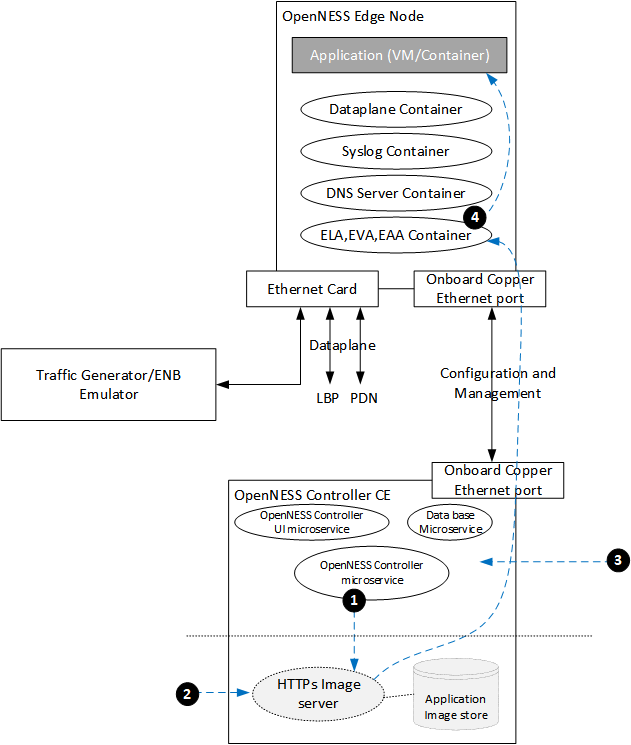
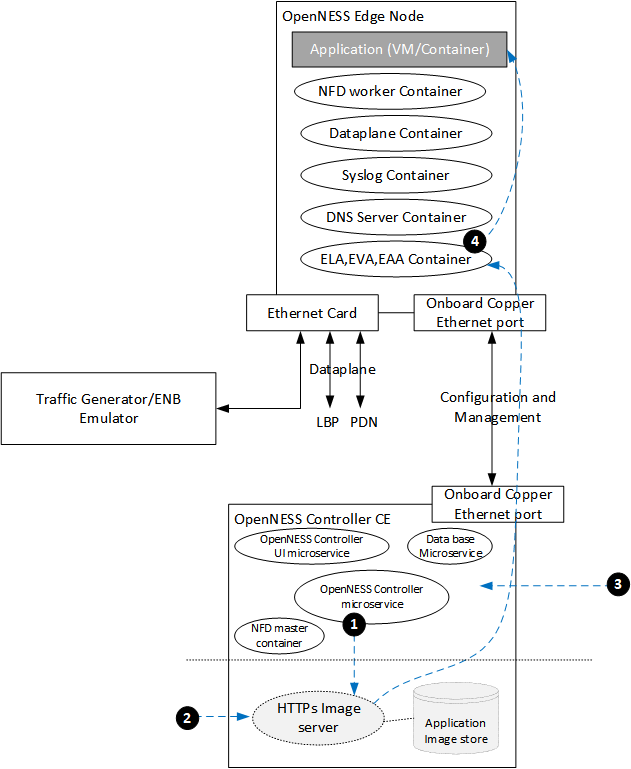
Arch update2003 (#195)
* 20.03 update

diff --git a/doc/architecture.md b/doc/architecture.md
@@ -121,14 +121,17 @@ Hence OpenNESS Controller deployment is described in these two modes:
   - Deploy edge compute applications from the image repository 
   - Configure the Edge compute application specific Traffic policy 
   - Configure the Edge compute application specific DNS policy 
+- **Node Feature Discovery (NFD)**: Contains two microservice. One on the controller (master) and one on the edge nodes (worker). NFD workers gets the hardware and software features on the edge node and the information is passed on to the NFD Master on the controller node. This information can be used by the user to deploy the applications to the edge node which meets the resource requirement. This ensures the reliable performance.
+- **Enhanced Platform Awareness**: is a subsystem of the application life cycle management that provides users to provide the key hardware or software features that needs to be made available to the applications when deployed on the edge node. The user is presented with a key:Value pair to choose from the supported EPA features. NFD when combined with EPA provides powerful mechanism for deployment for achieving application performance reliability. 
 - **Edge virtualization infrastructure management**: Use underlying virtualization infrastructure, whether directly via libvirt or Docker, or indirectly via Kubernetes, to manage the Edge Node platform and applications. 
 - **Telemetry**: Get basic edge compute microservices telemetry from connected Edge Nodes.
- 
+
 The Controller microservices make extensive use of the Go programming language and its runtime libraries.
 
 #### Details of Edge Controller Microservices functionality in Infrastructure deployment mode:
 - **Core Network Configuration**: Configure the access network (e.g., LTE/CUPS, 5G) control plane. 
 - **Telemetry**: Get basic edge compute microservices telemetry from connected Edge Nodes.
+- **Microservices and Enhancements for K8s master**: Set of microservice as daemon set deployed on Master to enable Cloudnative deployment. E.g. NFD (master), SRI-OV device plugin, etc. 
 
 OpenNESS when deployed using Kubernetes supports key features that expose the silicon micro architecture features of the platform to the applications and network functions  to achieve better and reliable performance. This will be described in the Enhanced Platform Awareness (EPA) section later in the document. 
 
@@ -149,8 +152,9 @@ OpenNESS Controller is used to onboard an application to the OpenNESS Edge Node.
 
 1. User sets up the HTTPS based Application image server. The image source needs to support HTTPS download. Edge Node trusts public CAs and the one from the controller. 
 2. User uploads the application image (container tar.gz image or VM qcow2) to the HTTPs server and ensures uploaded image is available for download over HTTPS.
-3. User initiates the Application deploy step using the Controller UI. This step initiates the download of the image from the HTTPS server to the Edge Node. After this step EVA registers the Application image. 
-4. User starts the Application, which kick starts the Container/Pod/VM. 
+3. User uses NFD to identify the edge node that supports the required EPA. 
+4. User initiates the Application deploy step using the Controller UI to the node that provides the required EPA for the application. This step initiates the download of the image from the HTTPS server to the Edge Node. After this step EVA registers the Application image. 
+5. User starts the Application, which kick starts the Container/Pod/VM. 
 
 ##### Application onboarding in OpenNESS Infrastructure deployment mode
 OpenNESS users need to use the Kubernetes Master to onboard and application to the OpenNESS Edge Node. OpenNESS support applications that can run in a docker container. Docker image tar.gz. The image source can be a docker registry or HTTPS image repository. The image repository can be an external image server or one that can be deployed on the controller. The figure below shows the steps involved in application onboarding.  
@@ -161,7 +165,7 @@ OpenNESS users need to use the Kubernetes Master to onboard and application to t
 
 1. User sets up the HTTPS based Application image server / Docker Registry where application container image is stored. 
 2. User uploads the application image (container tar.gz) to the HTTPs server. User downloads the application container image to the Edge Node.  
-3. User initiates the Application deploy step using Kubernetes (kubectl). 
+3. User initiates the Application deploy step using Kubernetes (kubectl). In this step user uses all the Kubernetes enhancements for EPA using NFD to deploy the application pod on the right node. 
 
 ### OpenNESS Edge Node 
 
@@ -170,7 +174,7 @@ OpenNESS users need to use the Kubernetes Master to onboard and application to t
 OpenNESS Edge Node hosts a set of microservices to enable Edge compute deployment. The type of OpenNESS microservices deployed on the Edge Node depends on the type of deployment - OpenNESS Infrastructure deployment or OpenNESS Native deployment. This is similar to OpenNESS controller deployment types described above.
 
 ##### Edge Node Microservices OpenNESS Native deployment mode
-Microservices deployed on the Edge Node in this mode include ELA, EVA, EAA, Syslog, DNS Server and NTS Dataplane. Although ELA, EVA and EAA can be deployed in separate containers.
+Microservices deployed on the Edge Node in this mode include ELA, EVA, EAA, Syslog, DNS Server and OVN/OVS-DPDK dataplane or optionally NTS Dataplane. 
 
  ![Edge Node Microservices](arch-images/openness_nodemicro.png)
 
@@ -190,7 +194,17 @@ Details of Edge Node Microservices functionality:
 - **DNS service**: Support DNS resolution and forwarding services for the application deployed on the edge compute. DNS server is implemented based on Go DNS library. DNS service supports resolving DNS requests from User Equipment (UE) and Applications on the edge cloud.  
 - **Edge Node Virtualization infrastructure**: Receive commands from the controller/NFV infrastructure managers to start and stop Applications. This functionality is implemented in the EVA (Edge virtualization Agent) microservice and is implemented in Go lang. 
 - **Edge application traffic policy**: Interface to set traffic policy for application deployed on the Edge Node. This functionality is implemented in the EDA (Edge Dataplane Agent) microservice and is implemented in Go lang. 
-- **Dataplane Service**: Steers traffic towards applications running on the Edge Node or the Local Break-out Port. 
+- **Dataplane Service**: Steers traffic towards applications running on the Edge Node or the Local Break-out Port.   
+   
+  <b>OVN/OVS-DPDK</b>
+  - The primary dataplane that is supported in native mode is OVN/OVS-DPDK. 
+  - OVN manages the IP address allocated to the applications 
+  - In this mode both north-south and east-west traffic is supported by OVS-DPDK.   
+  - vEth pair is used as interface for container and vitrio for VMs 
+  
+  <b>NTS</b>
+  - As a secondary option specifically targeted at S1u deployment NTS is supported. 
+  - When NTS is used as Dataplane OVS-DPDK can be used as inter-app service. 
   - Utilizing the Data Plane NTS (Network Transport Service), which runs on every Edge Node. It is implemented in C lang using DPDK for high performance IO. This is the recommended dataplane when incoming and outgoing flows is mix of pure IP + S1u (GTPu). 
     - Provide Reference ACL based Application specific packet tuple filtering 
     - Provide reference GTPU base packet learning for S1 deployment 
@@ -205,7 +219,6 @@ Details of Edge Node Microservices functionality:
     - Dedicated interface created for dataplane based on vhost-user for VM, dpdk-kni for Containers
     - Container or VM default Interface can be used for Inter-App, management and Internet access from application 
     - Dedicated OVS-DPDK interface for inter-apps communication can be created in case of On-Premises deployment. 
-
 - **Application Authentication**: Ability to authenticate an Edge compute application deployed from the Controller so that application can avail/call Edge Application APIs. Only applications that intend to call the Edge Application APIs need to be authenticated. TLS certificate based Authentication is implemented. 
 
 ![OpenNESS Application Authentication](arch-images/openness_appauth.png)
@@ -228,11 +241,12 @@ Details of Edge Node Microservices functionality:
 - **DNS service**: Support DNS resolution and forwarding services for the application deployed on the edge compute. DNS server is implemented based on Go DNS library. DNS service supports resolving DNS requests from User Equipment (UE) and Applications on the edge cloud.  
 - **Dataplane Service**: Steers traffic towards applications running on the Edge Node or the Local Break-out Port. 
   - Using OVN/OVS as Dataplane - recommended dataplane when incoming and outgoing flows are based on pure IP. 
+    - Dataplane is supported in both OVS only or OVS-DPDK mode for higher performance. 
     - Implemented using [kube-ovn](https://github.com/alauda/kube-ovn)
     - Provides IP 5-tuple based flow filtering and forwarding
     - Same Interface can be used for Inter-App, management, Internet and Dataplane interface
-
 - **Application Authentication**: Ability to authenticate Edge compute application deployed from Controller so that application can avail/call Edge Application APIs. Only applications that intend to call the Edge Application APIs need to be authenticated. TLS certificate based Authentication is implemented. 
+- **Microservices and Enhancements for node**: Set of microservice as daemon/replica set deployed on node to enable Cloudnative deployment. E.g. NFD (worker), multus, SRI-OV device plugin, etc. 
 
 ![OpenNESS Application Authentication](arch-images/openness_k8sappauth.png)
 
@@ -259,7 +273,8 @@ API endpoint for edge applications is implemented in the EAA (Edge Application A
 
 **OpenNESS Edge Node Resource usage**: 
 - All non-critical/non-realtime microservices on the OpenNESS Edge Node execute OS core typically Core 0.
-- Dataplane NTS and DPDK PMD thread requires a dedicated core/thread for high performance. 
+- Dataplane NTS and DPDK PMD thread requires a dedicated core/thread for high performance.
+- Dataplane OVS-DPDK requires dedicated core/thread for high performance.
   - DPDK library is used for the dataplane implementation 1G/2M hugepages support is required on the host. 
 
 #### Edge Compute Applications: Native on the Edge Node
@@ -282,14 +297,11 @@ OpenNESS may be deployed on 5G, LTE or IP (wireless or wireline) networks. The n
  
 OpenNESS supports multiple deployment options on an 5G Stand alone and LTE cellular network, as shown in Figure below. 
 
-
 - <b>5G Standalone edge cloud deployment</b> OpenNESS supports deployment of the Edge cloud as per the [3GPP_29.522 Rel v15.3]. In this mode, OpenNESS uses the 3GPP defined Service Based Architecture (SBA) REST APIs. The APIs use the "traffic influence" feature of the Application Function (AF) for Local Data Network (Edge cloud) processing. 
 
 - <b>Edge cloud deployment on CUPS or SGi</b> The Edge Node may be attached to the SGi interface of an EPC. Traffic from the EPC arrives as IP traffic, and is steered as appropriate to edge applications. EPCs may combine the control or user plane, or they may follow the Control-User Plane Separation (CUPS) architecture of [3GPP_23214], which provides for greater flexibility in routing data plane traffic through the LTE network. When EPC CUPS is deployed OpenNESS supports reference Core Network Configuration for APN based traffic steering for local edge cloud. 
 
-
 - <b>S1-U deployment in On-Premises Private LTE deployment </b>: Following [3GPP_23401], the Edge Node may be deployed on the S1 interface from an eNB. In this mode, traffic is intercepted by the Edge Node dataplane, which either redirects the traffic to edge applications or passes it through an upstream EPC. In this option, arriving traffic is encapsulated in a GTP tunnel; the dataplane handles decapsulation/encapsulation as required.
- 
 
 ![OpenNESS Multi-access support](arch-images/openness_multiaccess.png)
 
@@ -350,8 +362,19 @@ Edge Compute EPA- feature for Network edge and availability for CNF, Apps and Se
 - Node Feature discovery: Support detection of Silicon and Software features and automation of deployment of CNF, Applications and services
 - FPGA Remote System Update service: Support Intel OPAE (fpgautil) tool to build a Pod that is scheduled by K8s as a job that updated the FPGA with the new RTL
 - Real-time Kernel - Support for the K8s Edge Node running real time kernel 
+- Support for running legacy application in VM mode using Kubervirt and allocation of SRI-OV ethernet interfaces to VMs 
 - Non-Privileged Container: Support deployment of non-privileged pods (CNFs and Applications as reference)
+  
+Edge Compute EPA- feature for On-Premises edge 
 - Support for allocation of Intel® Movidius™ VPUs to the OnPrem applications running in Docker containers.
+- Support for dedicated core allocation to application running as VMs or Containers 
+- Support for dedicated SRIOV VF allocation to application running in VM or containers 
+> Note: when using SRIOV VFs in containers the VF is bound to the kernel driver. 
+- Support for system resource allocation into the application running as container 
+  - Mount point for shared storage 
+  - Pass environment variables 
+  - Configure the port rules 
+- Non-Privileged Container: Support deployment of non-privileged containers  
 
 ## OpenNESS Edge Node Applications
 OpenNESS Applications are onboarded and provisioned on the Edge Node through OpenNESS Controller in Native mode and K8s master in K8s mode. In K8s mode OpenNESS also supports onboarding of the Network Functions like RAN, Core, Firewall, etc. 
@@ -477,6 +500,30 @@ OpenNESS controller community edition supports configuration of the 5G Applicati
 ![5G end-to-end setup](arch-images/openness_ngc.png)
 
 _Figure - OpenNESS 5G end-to-end test setup_
+
+Following are the features supported by 5G Components of OpenNESS (AF, NEF, CNCA, WEB UI)
+
+Traffic Influence Submission API support : 3GPP 23.502  Sec. 52.6.7 Traffic Influence Service
+-	AF: Added support for traffic influence submission northbound API 
+-	NEF: added support for traffic influence submission API with stubs to loopback UDM and PCF calls
+-	kubectl support for traffic influence config in Network Edge mode 
+-	WEB UI support for traffic influence config in OnPerm mode
+
+OAM service 
+-	Registration of AF service with 5G CP
+
+PFD Management API support (3GPP 23.502  Sec. 52.6.3  PFD Management service)
+-	AF:   Added support for PFD Northbound API
+-	NEF:  Added support for PFD southbound API, and Stubs to loopback the PCF calls. 
+-	kubectl: Enhanced CNCA kube-ctl plugin to configure PFD parameters 
+-	WEB UI: Enhanced CNCA WEB UI to configure PFD params in OnPerm mode 
+
+oAuth2 based authentication between 5G Network functions: (as per 3GPP Standard)
+-	Implemented oAuth2 based authentication and validation 
+-	AF and NEF communication channel is updated to authenticated based on oAuth2 JWT token in addition to HTTP2. 
+
+HTTPS support 
+-	Enhanced the OAM, CNCA (web-ui and kube-ctl) to HTTPS interface 
 
 More details about the APIs can be found here [CNCA APIs](https://www.openness.org/api-documentation/?api=cups). 
 
